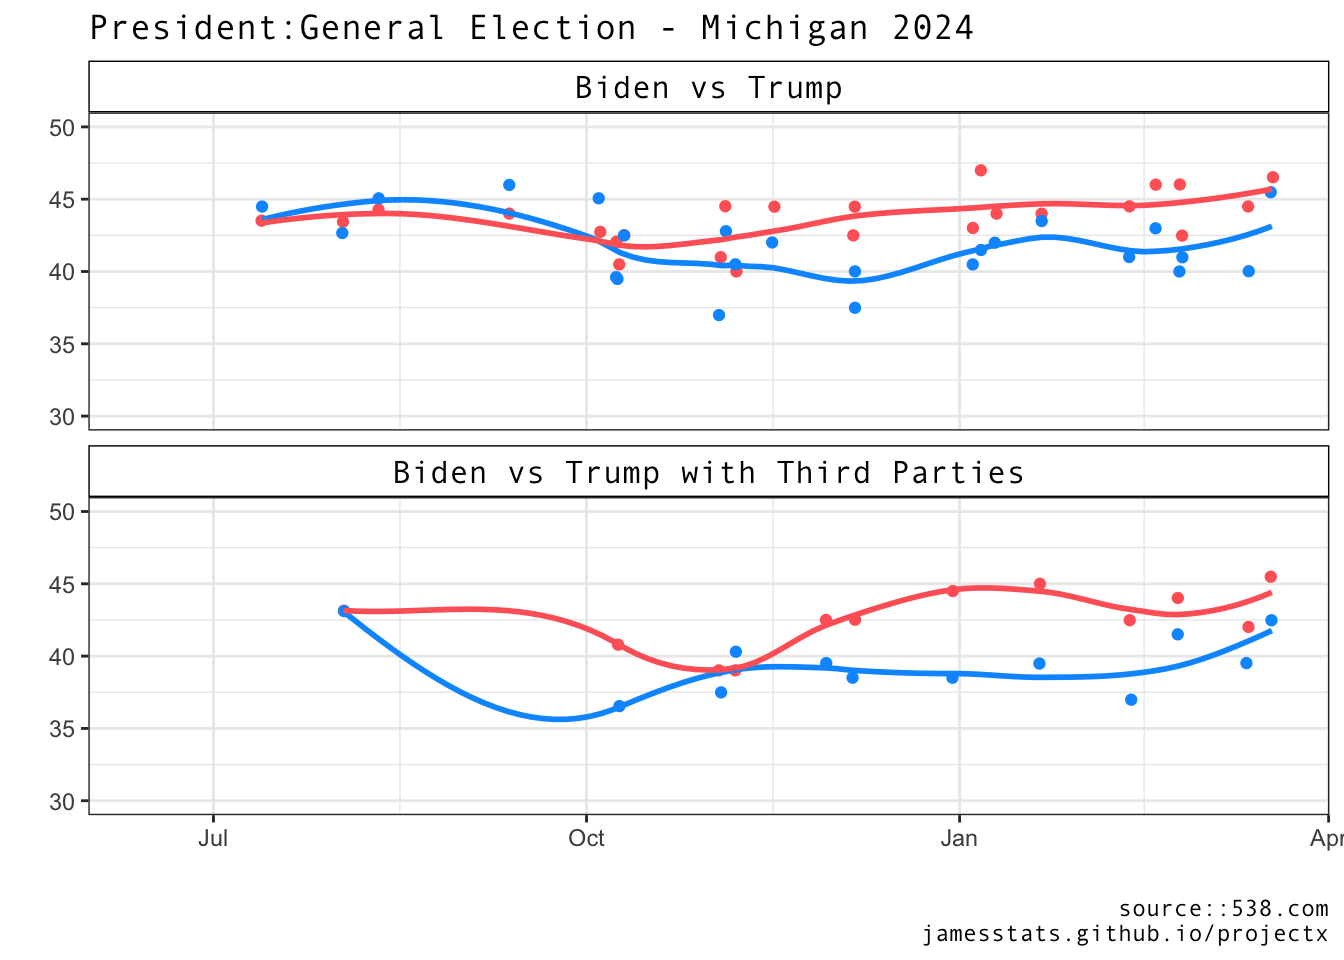
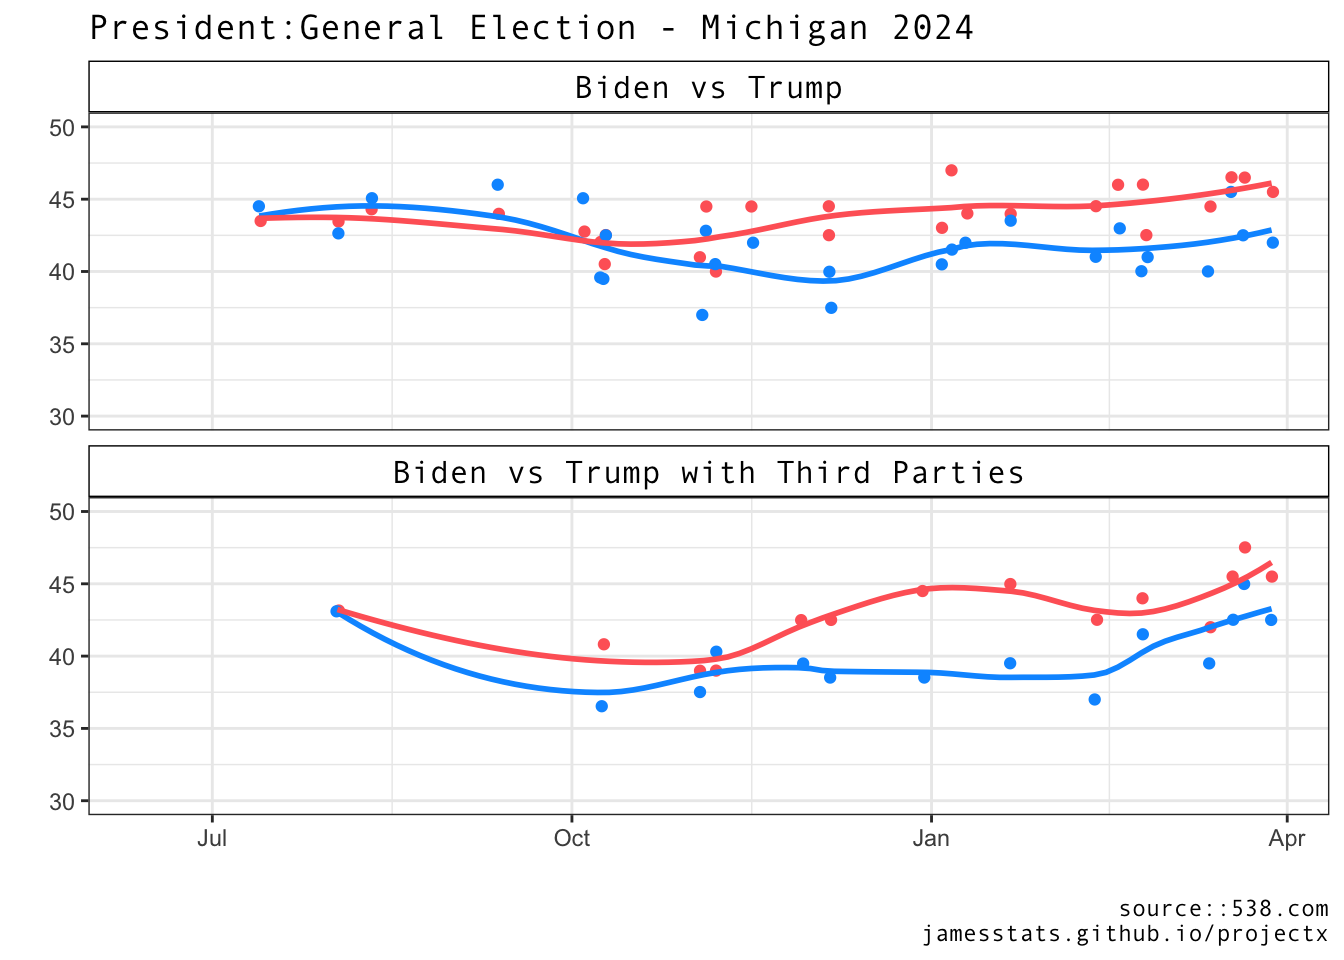
Swing States Update

diff --git a/docs/mipawi.html b/docs/mipawi.html
@@ -213,15 +213,15 @@ ul.task-list li input[type="checkbox"] {
 </thead>
 <tbody>
 <tr class="odd">
-<td>March 18,2024</td>
-<td>44%</td>
-<td><strong>47.5%</strong></td>
+<td>March 21,2024</td>
+<td>43.5%</td>
+<td><strong>42%</strong></td>
 <td><strong>Head-to-Head</strong></td>
 </tr>
 <tr class="even">
-<td>March 18,2024</td>
-<td>39.5%</td>
-<td><strong>44%</strong></td>
+<td>March 21,2024</td>
+<td>44.5%</td>
+<td><strong>45%</strong></td>
 <td>with <strong>Third-Parties</strong></td>
 </tr>
 </tbody>
@@ -250,15 +250,15 @@ ul.task-list li input[type="checkbox"] {
 </thead>
 <tbody>
 <tr class="odd">
-<td>March 13,2024</td>
+<td>March 31,2024</td>
 <td>45%</td>
-<td><strong>47%</strong></td>
+<td>39<strong>%</strong></td>
 <td><strong>Head-to-Head</strong></td>
 </tr>
 <tr class="even">
-<td>March 13,2024</td>
-<td>44%</td>
-<td><strong>48%</strong></td>
+<td>March 31,2024</td>
+<td>43%</td>
+<td>43.5<strong>%</strong></td>
 <td>with <strong>Third-Parties</strong></td>
 </tr>
 </tbody>
@@ -287,13 +287,13 @@ ul.task-list li input[type="checkbox"] {
 </thead>
 <tbody>
 <tr class="odd">
-<td>March 18,2024</td>
-<td>45.5%</td>
-<td><strong>46.5%</strong></td>
+<td>March 28,2024</td>
+<td>42%</td>
+<td><strong>45.5%</strong></td>
 <td><strong>Head-to-Head</strong></td>
 </tr>
 <tr class="even">
-<td>March 18,2024</td>
+<td>March 28,2024</td>
 <td>42.5%</td>
 <td><strong>45.5%</strong></td>
 <td>with <strong>Third-Parties</strong></td>
